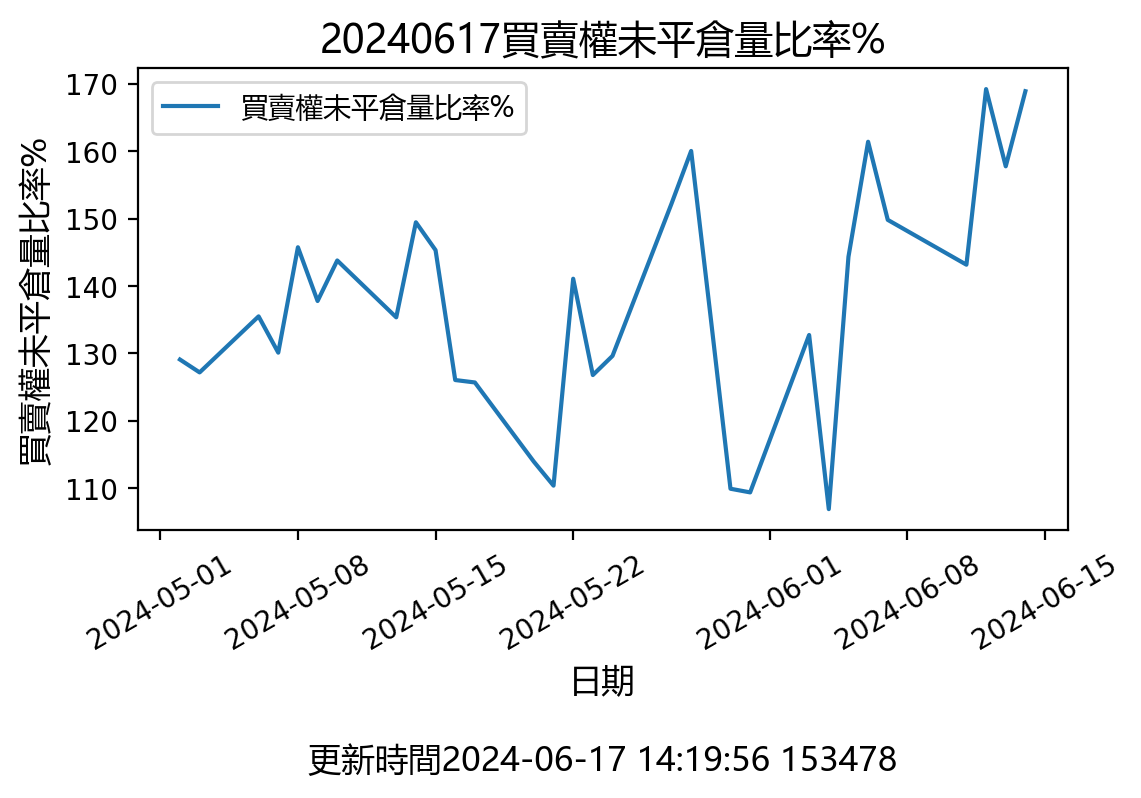
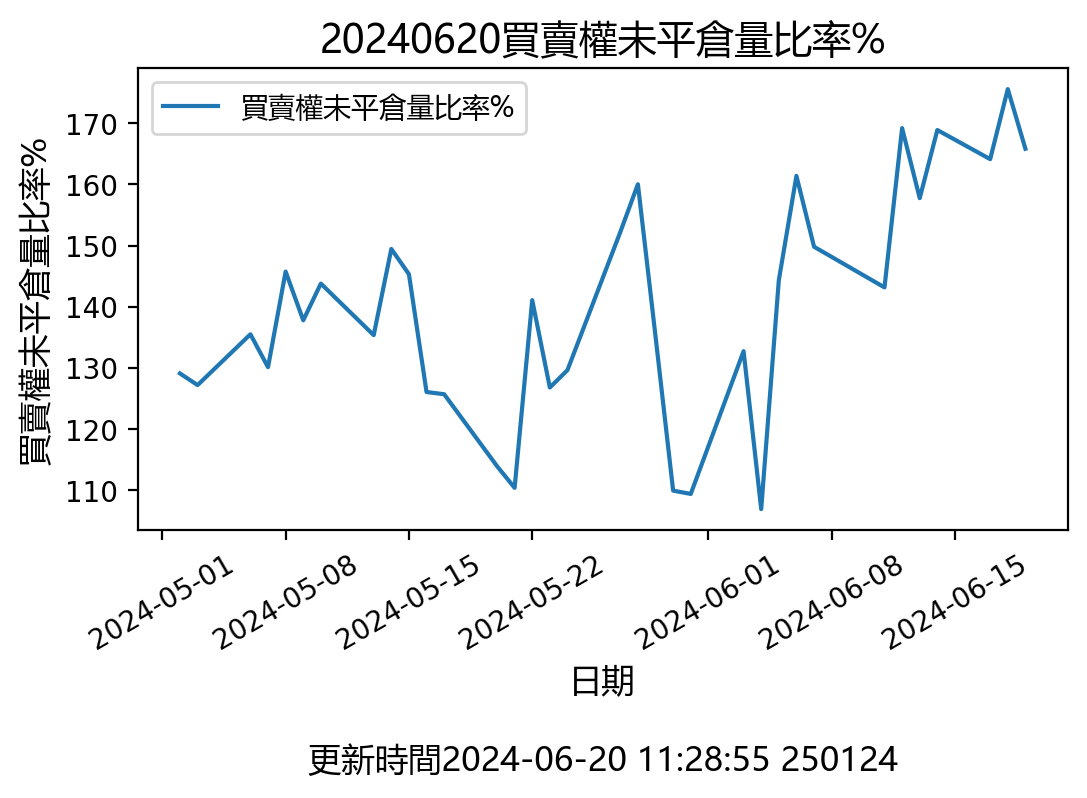
更新時間: Thu Jun 20 11:28:55 CST 2024

diff --git a/README.md b/README.md
@@ -1,3 +1,3 @@
 
-## 20240617 選擇權 Put/Call Ratios
+## 20240620 選擇權 Put/Call Ratios
 ![](pcratio.png)
